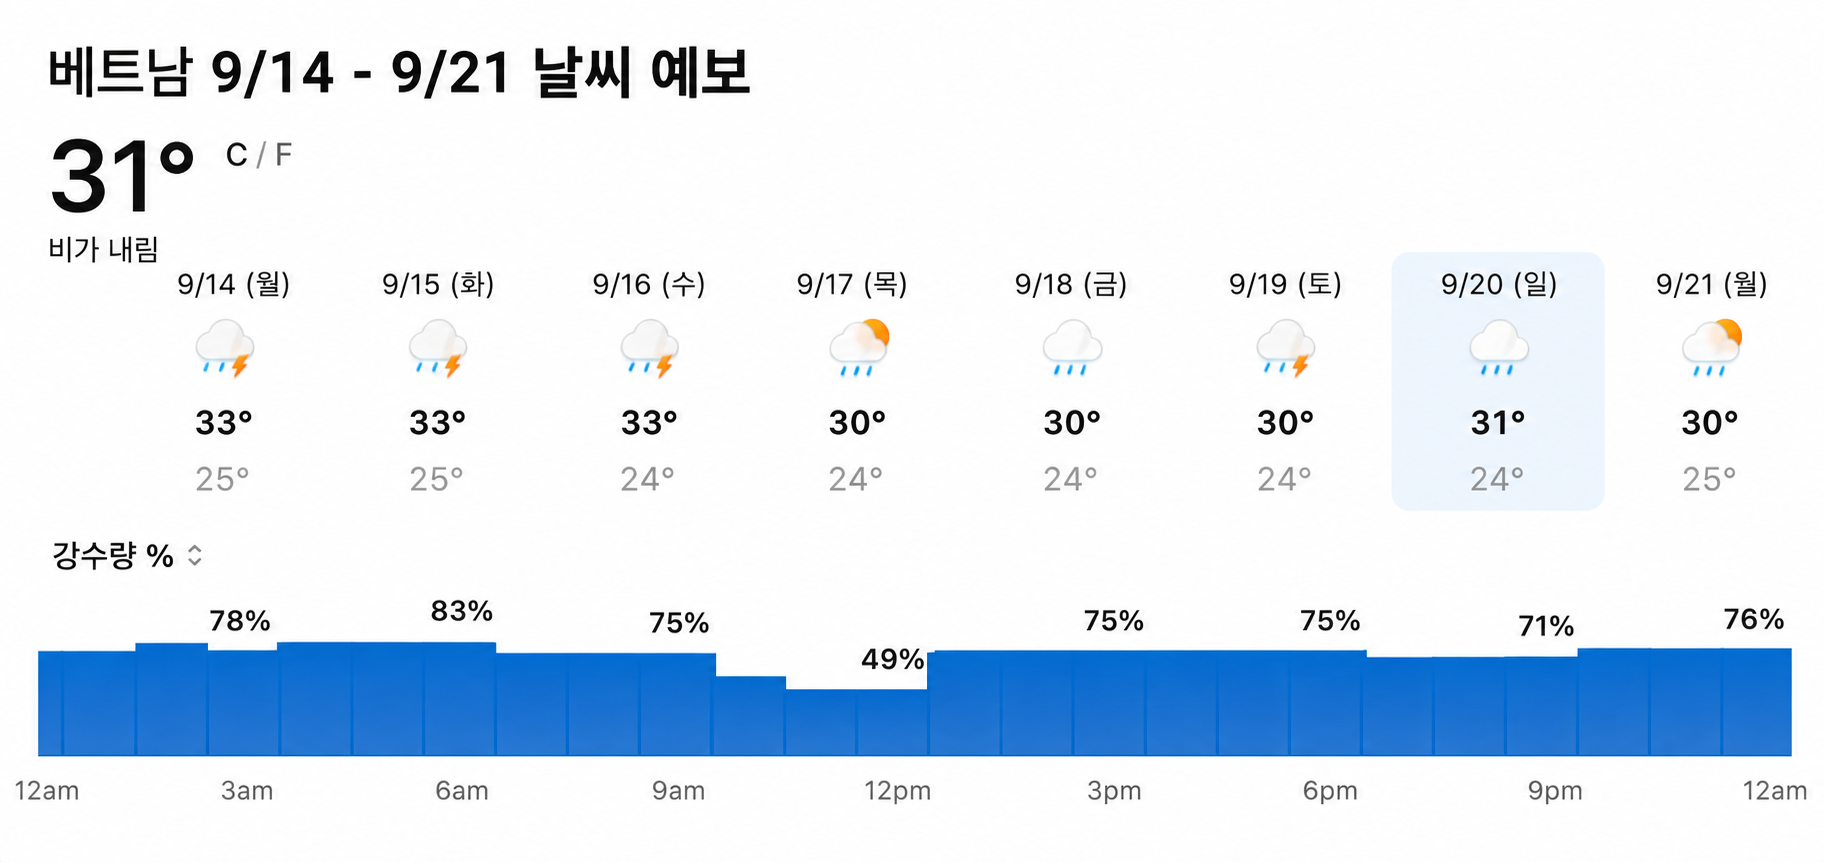
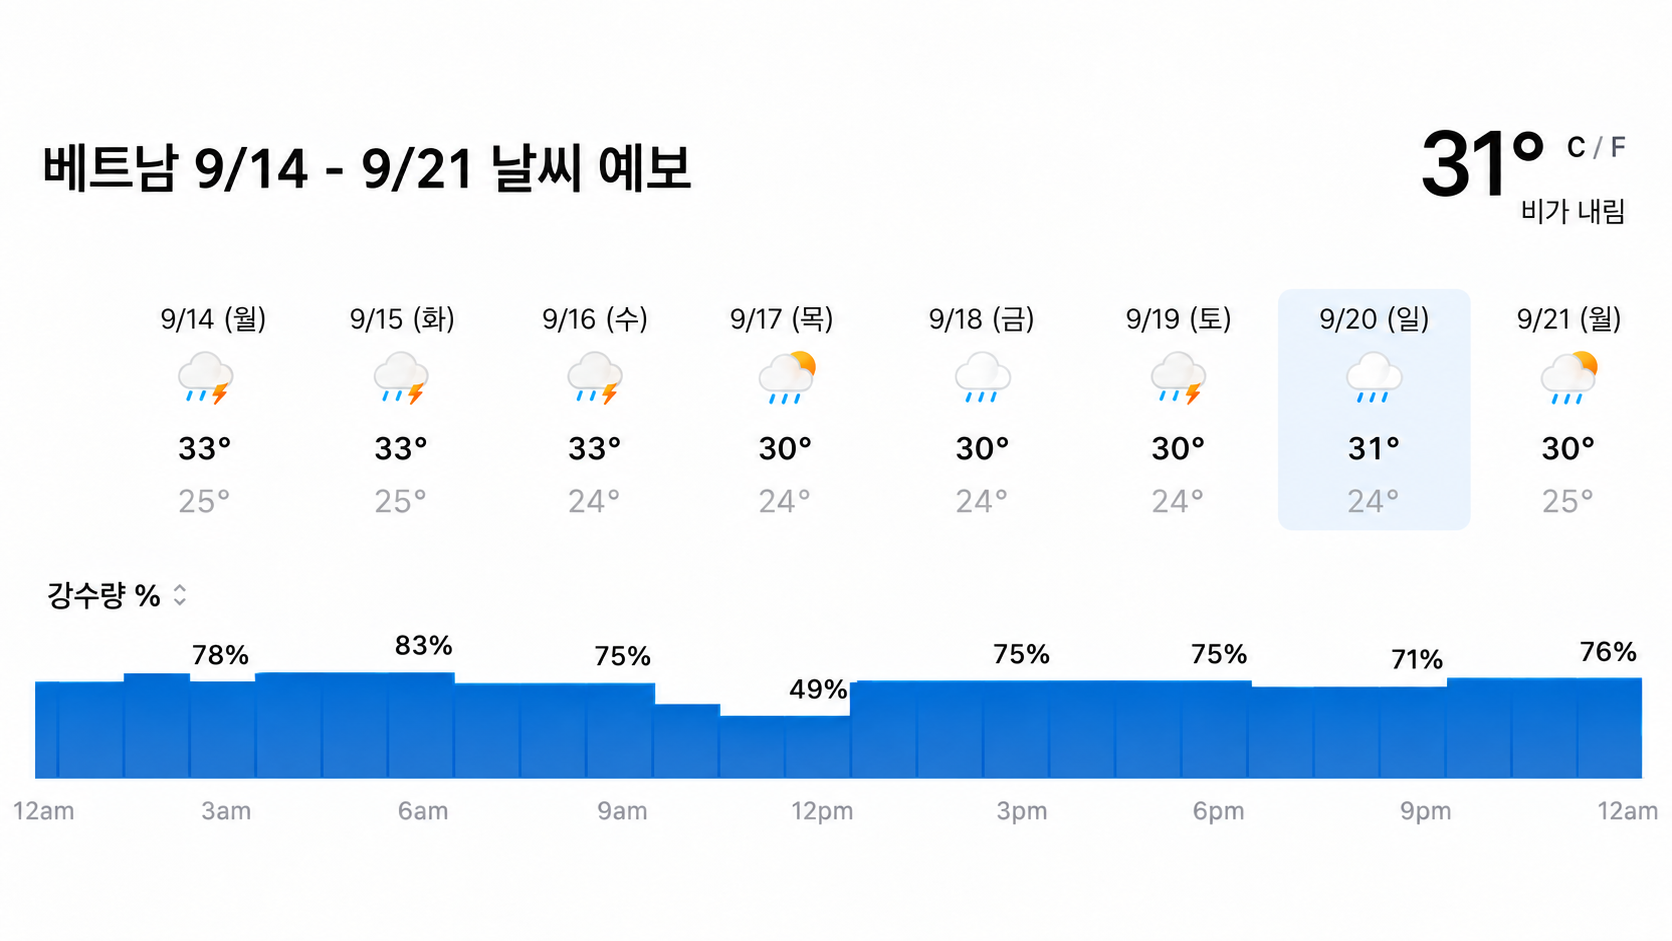
post: apply minor Phu Quoc copy and forecast updates

diff --git a/_posts/2026-10-03-phu-quoc-family-travel-before-you-go.md b/_posts/2026-10-03-phu-quoc-family-travel-before-you-go.md
@@ -76,7 +76,7 @@ hero_image: /assets/images/thumbnail/2026-10-03_phu-quoc-family-travel-before-yo
 - 다낭의 우기를 기준으로 생각했는데... 푸꾸옥은 9월이 우기라고... 푸꾸옥에 대해 아는 게 아무것도 없는데... 어딜 가지 ? 여름 섬에서 비가 오면 할 게 있긴 한가?
 
 <div class="yb-intro-weather-grid">
-  <img src="/assets/images/posting/260922/phu-quoc-rainy-season-forecast.png" alt="9월 13일부터 19일까지 비 예보가 표시된 푸꾸옥 날씨" />
+  <img src="/assets/images/posting/260922/phu-quoc-rainy-season-forecast.png" alt="9월 14일부터 21일까지 비 예보가 표시된 푸꾸옥 날씨" />
 </div>
 
 **결론적으로 가기 전까지 걱정이 많았는데 만족만족!**  다음 여행을 준비하는 사람들을 위해, 걱정 속에서 벼락치기로 준비하면서 부랴부랴 찾아본 것들을 정리해봤다. 
@@ -97,11 +97,11 @@ hero_image: /assets/images/thumbnail/2026-10-03_phu-quoc-family-travel-before-yo
 
 리조트를 짓고, 외국인 무비자를 도입하며 전략적으로 개발한 터라, 푸꾸옥의 관광지는 전통의 느낌보다는 벤치마킹해 새로 만든 어딘가의 느낌이 많이 나고 깨끗한 편이다.
 
-### 2027년 APEC 개최를 모멘텀으로 더 개발 중
+### 푸꾸옥은 지금도 개발 중
 
 공항에서 리조트로 이동 하는 길에 공항 확대, 오페라하우스 같은 공연장 건설 등 대규모 공사 현장이 보였다. 18킬로 경전철도 만든다고... 베트남이 [2027년 APEC 개최국](https://www.apec.org/meeting-papers/annual-ministerial-meetings/2025/2025-apec-ministerial-meeting)이라 준비가 한창이라고 했다. 물론 공사가 관광에 영향을 주지는 않는다.
 
-### 푸꾸옥은 베트남보다 캄보디아가 더 가깝지만 베트남땅
+### 푸꾸옥은 베트남보다 캄보디아가 더 가깝다?
 
 {: data-toc="푸꾸옥의 위치"}
 
@@ -352,13 +352,11 @@ hero_image: /assets/images/thumbnail/2026-10-03_phu-quoc-family-travel-before-yo
 | CEO그룹 | 즈엉바오 소나시   | 노보텔, 베스트웨스턴 프리미어 소나시   |
 
 
-## 이제 떠나십시오! 푸꾸옥으로 출발 !
+## 이제 푸꾸옥으로 출발 !
 
 {: data-toc="푸꾸옥으로 출발"}
 
 ![](orca-paste-1791016391683-77d173ab-caa3-48ec-b1b1-ae9a30c6f36d.png)
-
-## 준비는 이 정도면 충분하다!
 
 출발 72시간 전에 PAI를 쓰고(주소는 안장성으로), QR 결제 앱을 하나 켜두고, 남부와 북부 중 어디에 묵을지만 정하면 끝.
 
